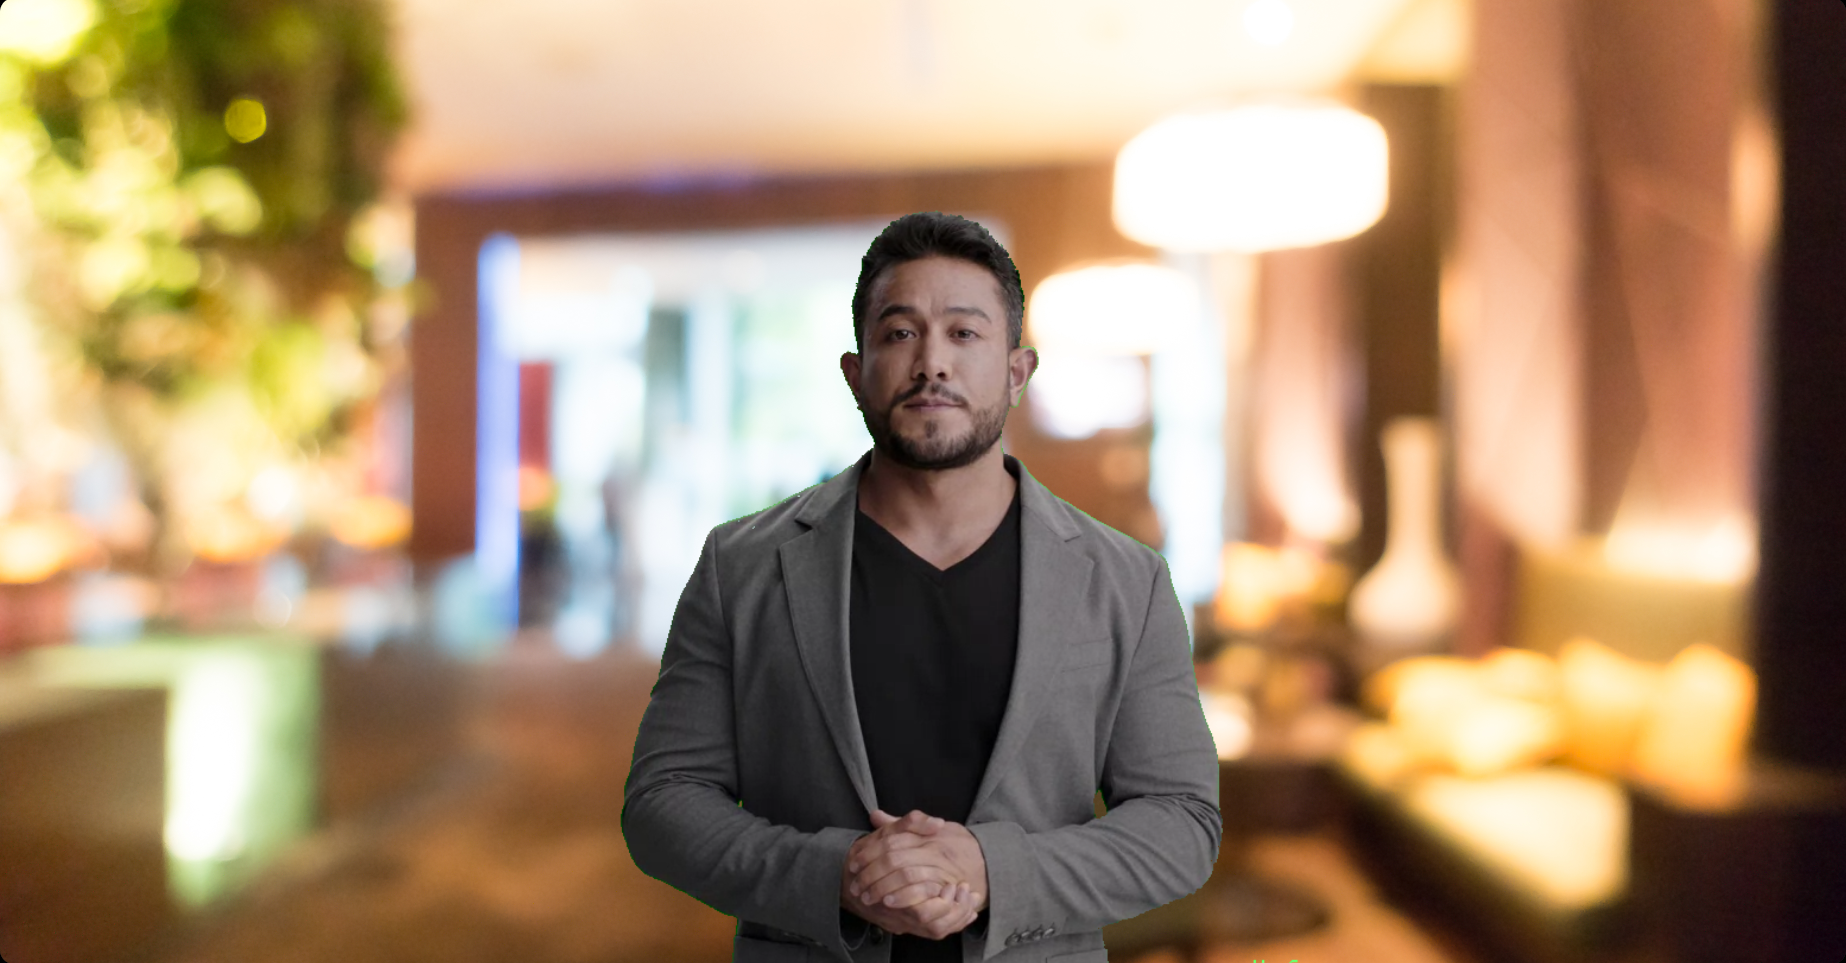
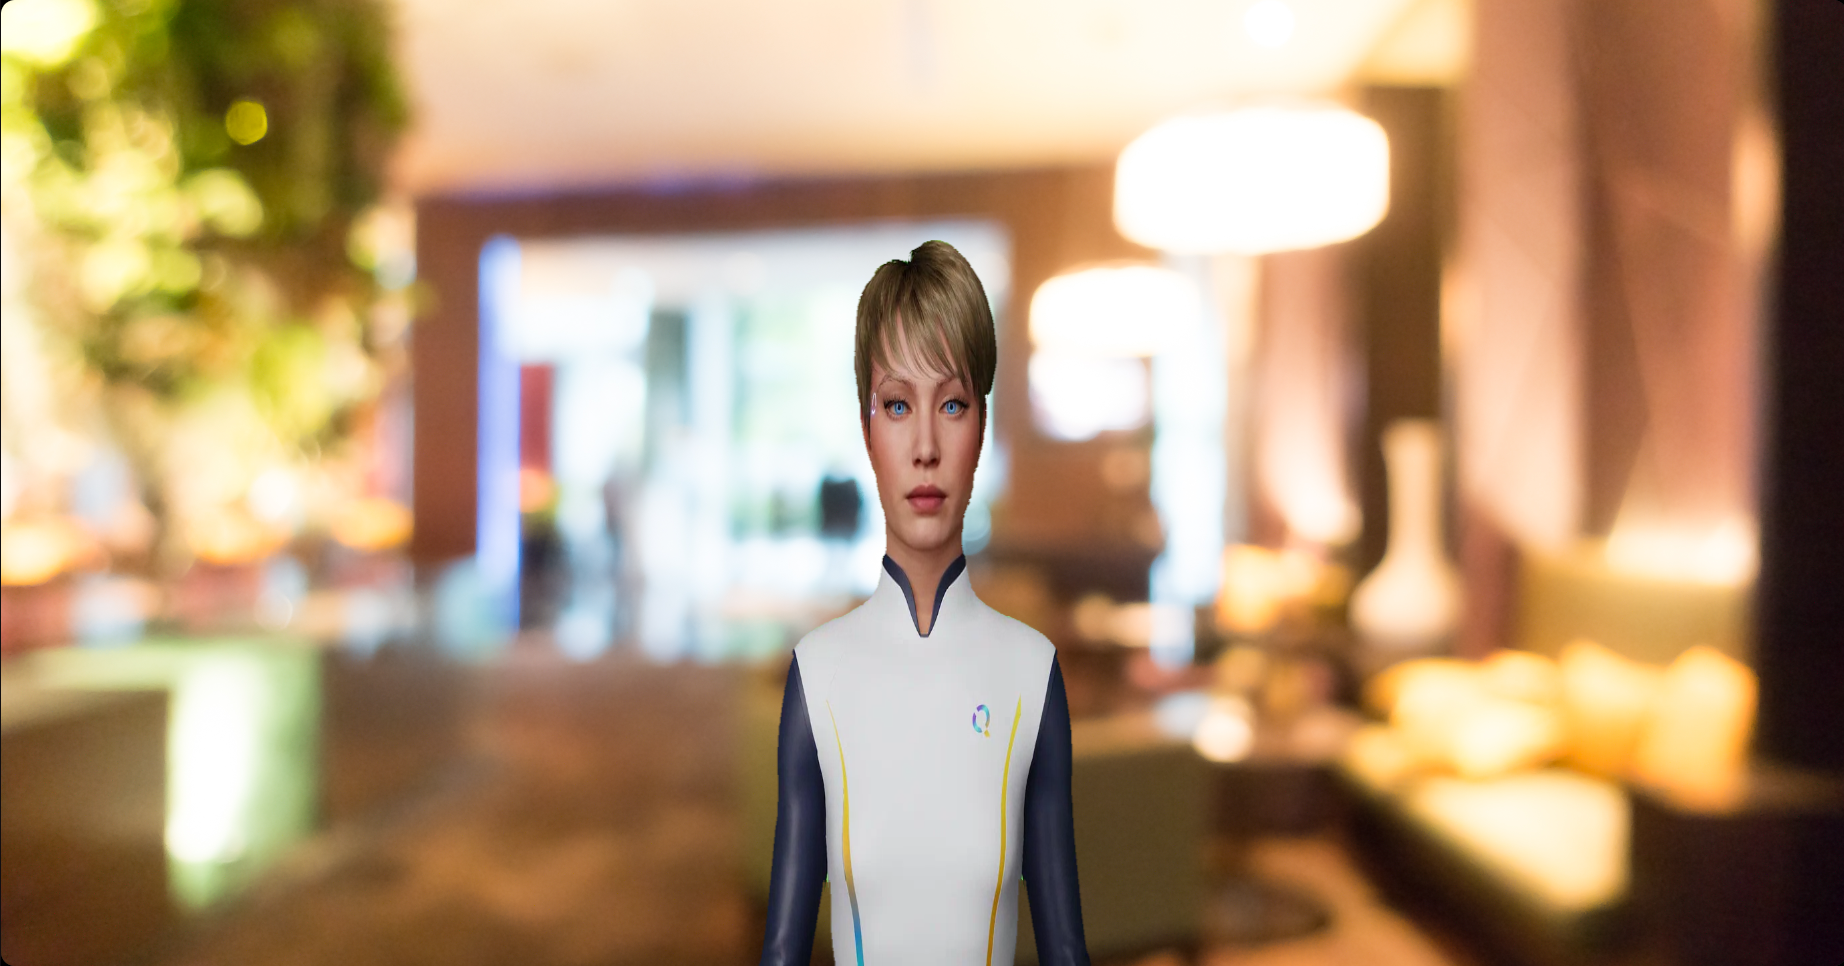
change convas setting to removing green screen

diff --git a/components/canvas-render.tsx b/components/canvas-render.tsx
@@ -19,15 +19,18 @@ export function CanvasRender(props: CanvasRenderProps) {
     const ctx = refCanvas.current?.getContext('2d');
     let show = true;
 
+    // Green screen parameters
+    const greenThreshold = 120; // Adjust as needed
+    const tolerance = 1.6; // Strength of green compared to red and blue
+    const feathering = 5; // Number of pixels for feathering (smooth edges)
+
     function processFrame() {
       if (!refCanvas.current || !ctx || !show) return;
 
-      // If streaming is active, draw the video frames
       if (isStreaming && videoRef.current?.readyState === 4) {
         ctx.clearRect(0, 0, refCanvas.current.width, refCanvas.current.height);
         ctx.drawImage(videoRef.current, 0, 0, refCanvas.current.width, refCanvas.current.height);
 
-        // Optional: Image data processing (e.g., green screen effect)
         const imageData = ctx.getImageData(0, 0, refCanvas.current.width, refCanvas.current.height);
         const data = imageData.data;
 
@@ -36,9 +39,21 @@ export function CanvasRender(props: CanvasRenderProps) {
           const green = data[i + 1];
           const blue = data[i + 2];
 
-          // Adjust green screen removal based on the actual scenario
-          if (green > 90 && red < 90 && blue < 90) {
-            data[i + 3] = 0; // Set green pixels to transparent
+          // Check if the pixel is green enough to be removed
+          if (green > greenThreshold && green > red * tolerance && green > blue * tolerance) {
+            data[i + 3] = 0; // Set alpha to 0 for transparency
+
+            // Feather the edges by checking neighboring pixels
+            for (let f = 1; f <= feathering; f++) {
+              // Get the surrounding pixels for feathering
+              const prevPixelIndex = i - (4 * f);
+              const nextPixelIndex = i + (4 * f);
+              if (prevPixelIndex >= 0 && nextPixelIndex < data.length) {
+                // Apply a gradual transparency effect for smoothing
+                data[prevPixelIndex + 3] = Math.max(data[prevPixelIndex + 3] - f * 20, 0);
+                data[nextPixelIndex + 3] = Math.max(data[nextPixelIndex + 3] - f * 20, 0);
+              }
+            }
           }
         }
 
@@ -61,5 +76,5 @@ export function CanvasRender(props: CanvasRenderProps) {
     };
   }, [videoRef]);
 
-  return <canvas className="w-[95%] bg-cover bg-center z-10" style={style} ref={refCanvas} />;
+  return <canvas className="w-[95%] h-[70vh] bg-cover bg-center z-10" style={style} ref={refCanvas} />;
 }

diff --git a/components/InteractiveAvatar.tsx b/components/InteractiveAvatar.tsx
@@ -119,8 +119,8 @@ export default function InteractiveAvatar() {
         {
           newSessionRequest: {
             quality: "high",
-            avatarName: 'Tyler-incasualsuit-20220721',
-            voice: { voiceId: '0ebe70d83b2349529e56492c002c9572' },
+            avatarName: '0cb54522970c4820b3763469a612bedc',
+            voice: { voiceId: '131a436c47064f708210df6628ef8f32' },
           },
         },
         setDebug
@@ -499,18 +499,19 @@ export default function InteractiveAvatar() {
         stream && 
         <div className="z-10 w-[50%] absolute">
           <div className="px-4 text-white z-10 h-[200px] overflow-y-auto pt-8" style={{
-            maskImage: "linear-gradient(to top, black, transparent)"
+            maskImage: "linear-gradient(to top, black 20%, transparent 20%);"
           }}>
             {
               messages?.map((message, index)=>(
-                <div className="flex justify-start mt-2">
+                <div className={`flex ${ message.user === 'bot' ? 'justify-end' : 'justify-start'}  mt-2`}>
                   <div className="flex justify-between gap-3">
-                    <div className={`h-[20px] w-[20px] ${message.user === 'bot' ? 'bg-[rgb(64,67,211)]': 'bg-gray-500'}  rounded-full flex justify-center items-center`}>
-                      {
-                        message.user === 'bot' ? 'Q' : 'U'
-                      }
-                    </div>
-                    <p className="w-full"
+                    {
+                      message.user === 'user' && 
+                      <div className={`h-[20px] w-[20px] bg-gray-500  rounded-full flex justify-center items-center`}>
+                        U
+                      </div>
+                    }
+                    <p className="w-full px-2 rounded-md text-white"
                     style={{
                       background: "linear-gradient(313deg, rgba(50, 181, 255, 0.07) 9.15%, rgba(255, 114, 224, 0.07) 104.07%), rgba(22, 23, 26, 0.3)"
                     }}>
@@ -518,6 +519,12 @@ export default function InteractiveAvatar() {
                         message.message
                       }
                     </p>
+                    {
+                      message.user === 'bot' && 
+                      <div className={`h-[20px] w-[20px] bg-[#3b82f6]  rounded-full flex justify-center items-center`}>
+                        Q
+                      </div>
+                    }
                   </div>
                 </div>
               ))
